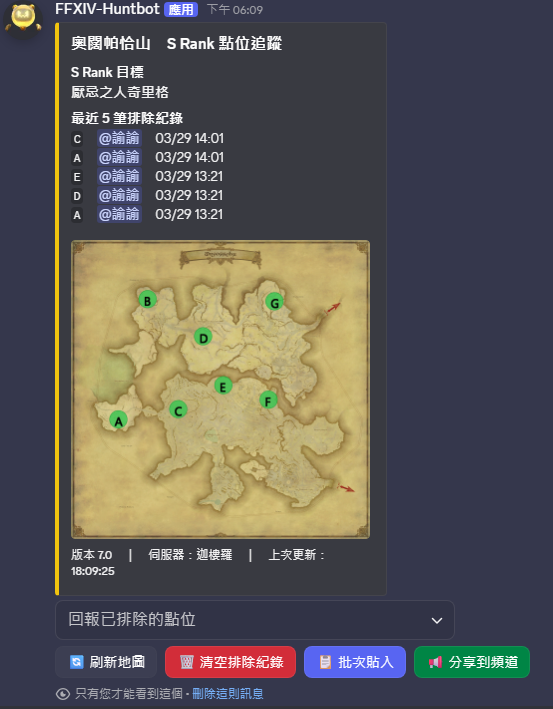
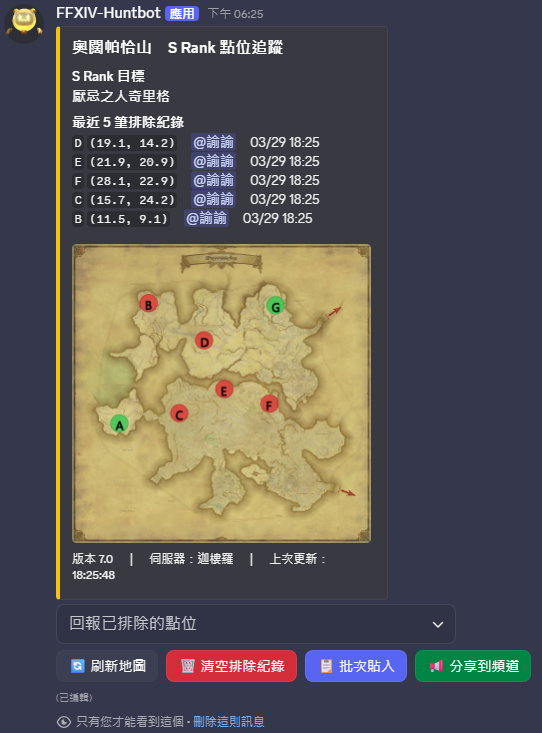
v1.0.2
fix bugs

Changed region(s): [[0.0, 0.0, 0.7085, 0.8378], [0.0886, 0.8378, 1.0, 0.9929]]

diff --git a/Functions/Cogs/SRebornspot.py b/Functions/Cogs/SRebornspot.py
@@ -33,6 +33,20 @@ _STATE_FILE = os.path.normpath(
 _HISTORY_LIMIT = 5
 WORLD_NAMES = ["伊弗利特", "迦樓羅", "利維坦", "鳳凰", "奧汀", "巴哈姆特", "泰坦"]
 
+# ── 地圖生成冷卻（秒）─────────────────────────────────────────────────────────
+_MAP_GEN_CD   = 10                          # 冷卻秒數
+_map_gen_last: dict[int, float] = {}        # { user_id: last_use_timestamp }
+
+def _check_map_cd(user_id: int) -> float:
+    """回傳剩餘冷卻秒數；0 表示可以使用，並同時更新時間戳記。"""
+    now      = time.time()
+    last     = _map_gen_last.get(user_id, 0.0)
+    remaining = _MAP_GEN_CD - (now - last)
+    if remaining > 0:
+        return remaining
+    _map_gen_last[user_id] = now
+    return 0.0
+
 # ── 資料載入 ──────────────────────────────────────────────────────────────────
 with open(_SRANK_DATA_FILE, "r", encoding="utf-8") as _f:
     SRANK_DATA: dict = json.load(_f)
@@ -88,7 +102,7 @@ def _set_cleared(map_name: str, cleared: list[str], server: str) -> None:
     _save_state(state)
 
 
-def _add_history(map_name: str, point: str, user_id: int, user_name: str, server: str) -> None:
+def _add_history(map_name: str, point: str, user_id: int, user_name: str, server: str, x: float | None = None, y: float | None = None) -> None:
     state = _load_state()
     if server not in state:
         state[server] = {}
@@ -100,6 +114,8 @@ def _add_history(map_name: str, point: str, user_id: int, user_name: str, server
         "user_id": user_id,
         "user_name": user_name,
         "ts": time.time(),
+        "x": x,
+        "y": y,
     })
     # 只保留最近 N 筆
     state[server][map_name]["history"] = history[-_HISTORY_LIMIT:]
@@ -168,7 +184,7 @@ def _parse_and_apply_batch(
         if label not in cleared:
             cleared.append(label)
             _set_cleared(zh_name, cleared, server)
-            _add_history(zh_name, label, user_id, user_name, server)
+            _add_history(zh_name, label, user_id, user_name, server, x=x, y=y)
             success_lines.append(f"✅ **{zh_name}** {label}　`({x}, {y})`")
         else:
             success_lines.append(f"⬜ **{zh_name}** {label}　`({x}, {y})` 已排除")
@@ -205,7 +221,8 @@ def build_srank_embed(map_name: str, map_data: dict, version: str, map_state: di
         hist_lines = []
         for h in reversed(history):
             ts = datetime.datetime.fromtimestamp(h["ts"]).strftime("%m/%d %H:%M")
-            hist_lines.append(f"`{h['point']}`　<@{h['user_id']}>　{ts}")
+            coord = f" `({h['x']}, {h['y']})`" if h.get("x") is not None else ""
+            hist_lines.append(f"`{h['point']}`{coord}　<@{h['user_id']}>　{ts}")
         embed.add_field(
             name=f"最近 {_HISTORY_LIMIT} 筆排除紀錄",
             value="\n".join(hist_lines),
@@ -307,12 +324,19 @@ class ReportSelect(Select):
         if label not in cleared:
             cleared.append(label)
             _set_cleared(self.map_name, cleared, view.server)
+            # 從 map_data 查出該點位的座標
+            _, map_data = _get_map_data(self.map_name)
+            pt_info = next((p for p in map_data["points"] if p["label"] == label), None)
+            px = pt_info["x"] if pt_info else None
+            py = pt_info["y"] if pt_info else None
             _add_history(
                 self.map_name,
                 label,
                 interaction.user.id,
                 interaction.user.display_name,
                 view.server,
+                x=px,
+                y=py,
             )
 
         # 更新 embed 與選單（不重生地圖）
@@ -329,6 +353,13 @@ class RefreshSRankButton(Button):
         self.map_name = map_name
 
     async def callback(self, interaction: discord.Interaction):
+        remaining = _check_map_cd(interaction.user.id)
+        if remaining > 0:
+            await interaction.response.send_message(
+                f"⏳ 地圖生成冷卻中，請等待 **{remaining:.0f}** 秒後再試。",
+                ephemeral=True,
+            )
+            return
         view: SRankView = self.view
         await view.refresh_message(interaction)
 
@@ -404,6 +435,13 @@ class ShareToChannelButton(Button):
         self.map_name = map_name
 
     async def callback(self, interaction: discord.Interaction):
+        remaining = _check_map_cd(interaction.user.id)
+        if remaining > 0:
+            await interaction.response.send_message(
+                f"⏳ 地圖生成冷卻中，請等待 **{remaining:.0f}** 秒後再試。",
+                ephemeral=True,
+            )
+            return
         view: SRankView = self.view
         await interaction.response.defer(ephemeral=True)
 

diff --git a/README.md b/README.md
@@ -44,7 +44,7 @@
 顯示指定地圖的 **S Rank 點位追蹤地圖**（僅自己可見）。
 
 ![Srankmap](Srankmap.png)
-![command](command.png)
+![command](command.png)!
 
 - 參數：
   - `version`：遊戲版本（7.0 黃金遺産 / 6.0 曉月之終途）
@@ -58,11 +58,11 @@
 | 下拉選單 | 回報已排除的點位，即時更新地圖標記 |
 | 🔄 刷新地圖 | 重新生成最新地圖圖片 |
 | 🗑 清空排除紀錄 | 清除所有已排除點位，重新開始 |
-| 📋 批次貼入 | 貼入「[繁中狩獵車](https://maluku1125.github.io/FFXIVHuntingTrain/)」或「Turtle Scouter」匯出格式，批次排除點位 |
+| 📋 批次貼入 | 批次排除點位 |
 | 📢 分享到頻道 | 將目前地圖圖片以公開訊息發送到當前頻道 |
 
 **批次貼入支援格式：**
-(支援 __烏龜網__ 與 __[繁中狩獵車](https://maluku1125.github.io/FFXIVHuntingTrain/)__ 的output直接貼上)
+(支援 _[繁中狩獵車](https://maluku1125.github.io/FFXIVHuntingTrain/)」或「Turtle Scouter」的排點匯出格式直接貼上)
 ```
 Queen hawk @ Urqopacha ( 18.8 , 14.0 )
 Nechuciho @ Urqopacha ( 21.6 , 20.4 )
